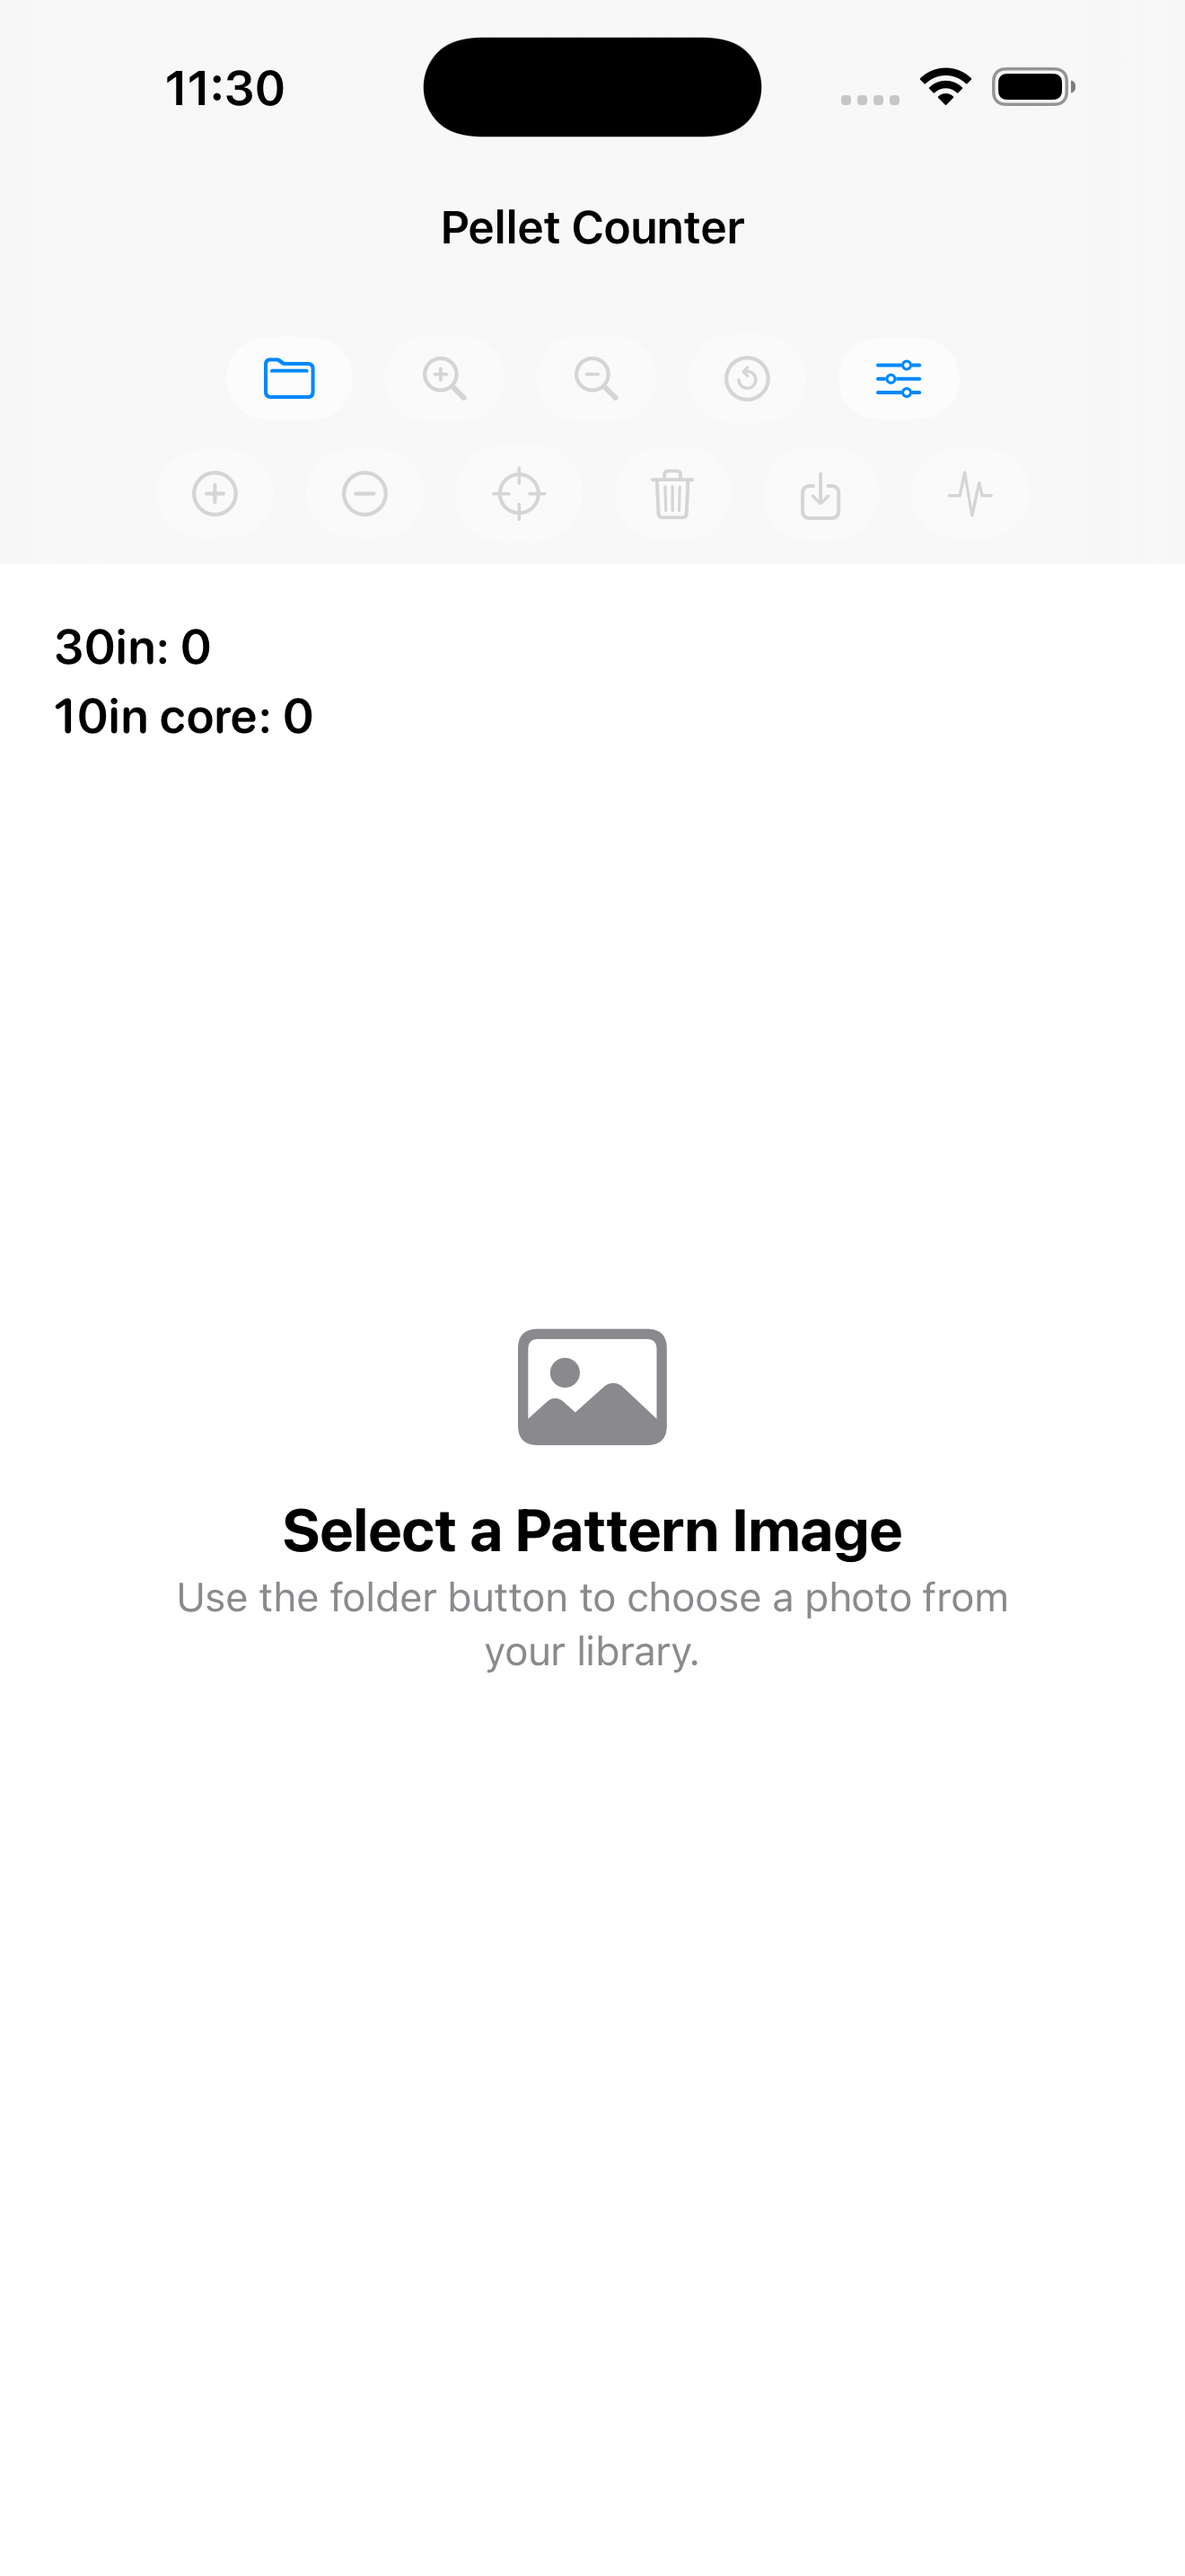
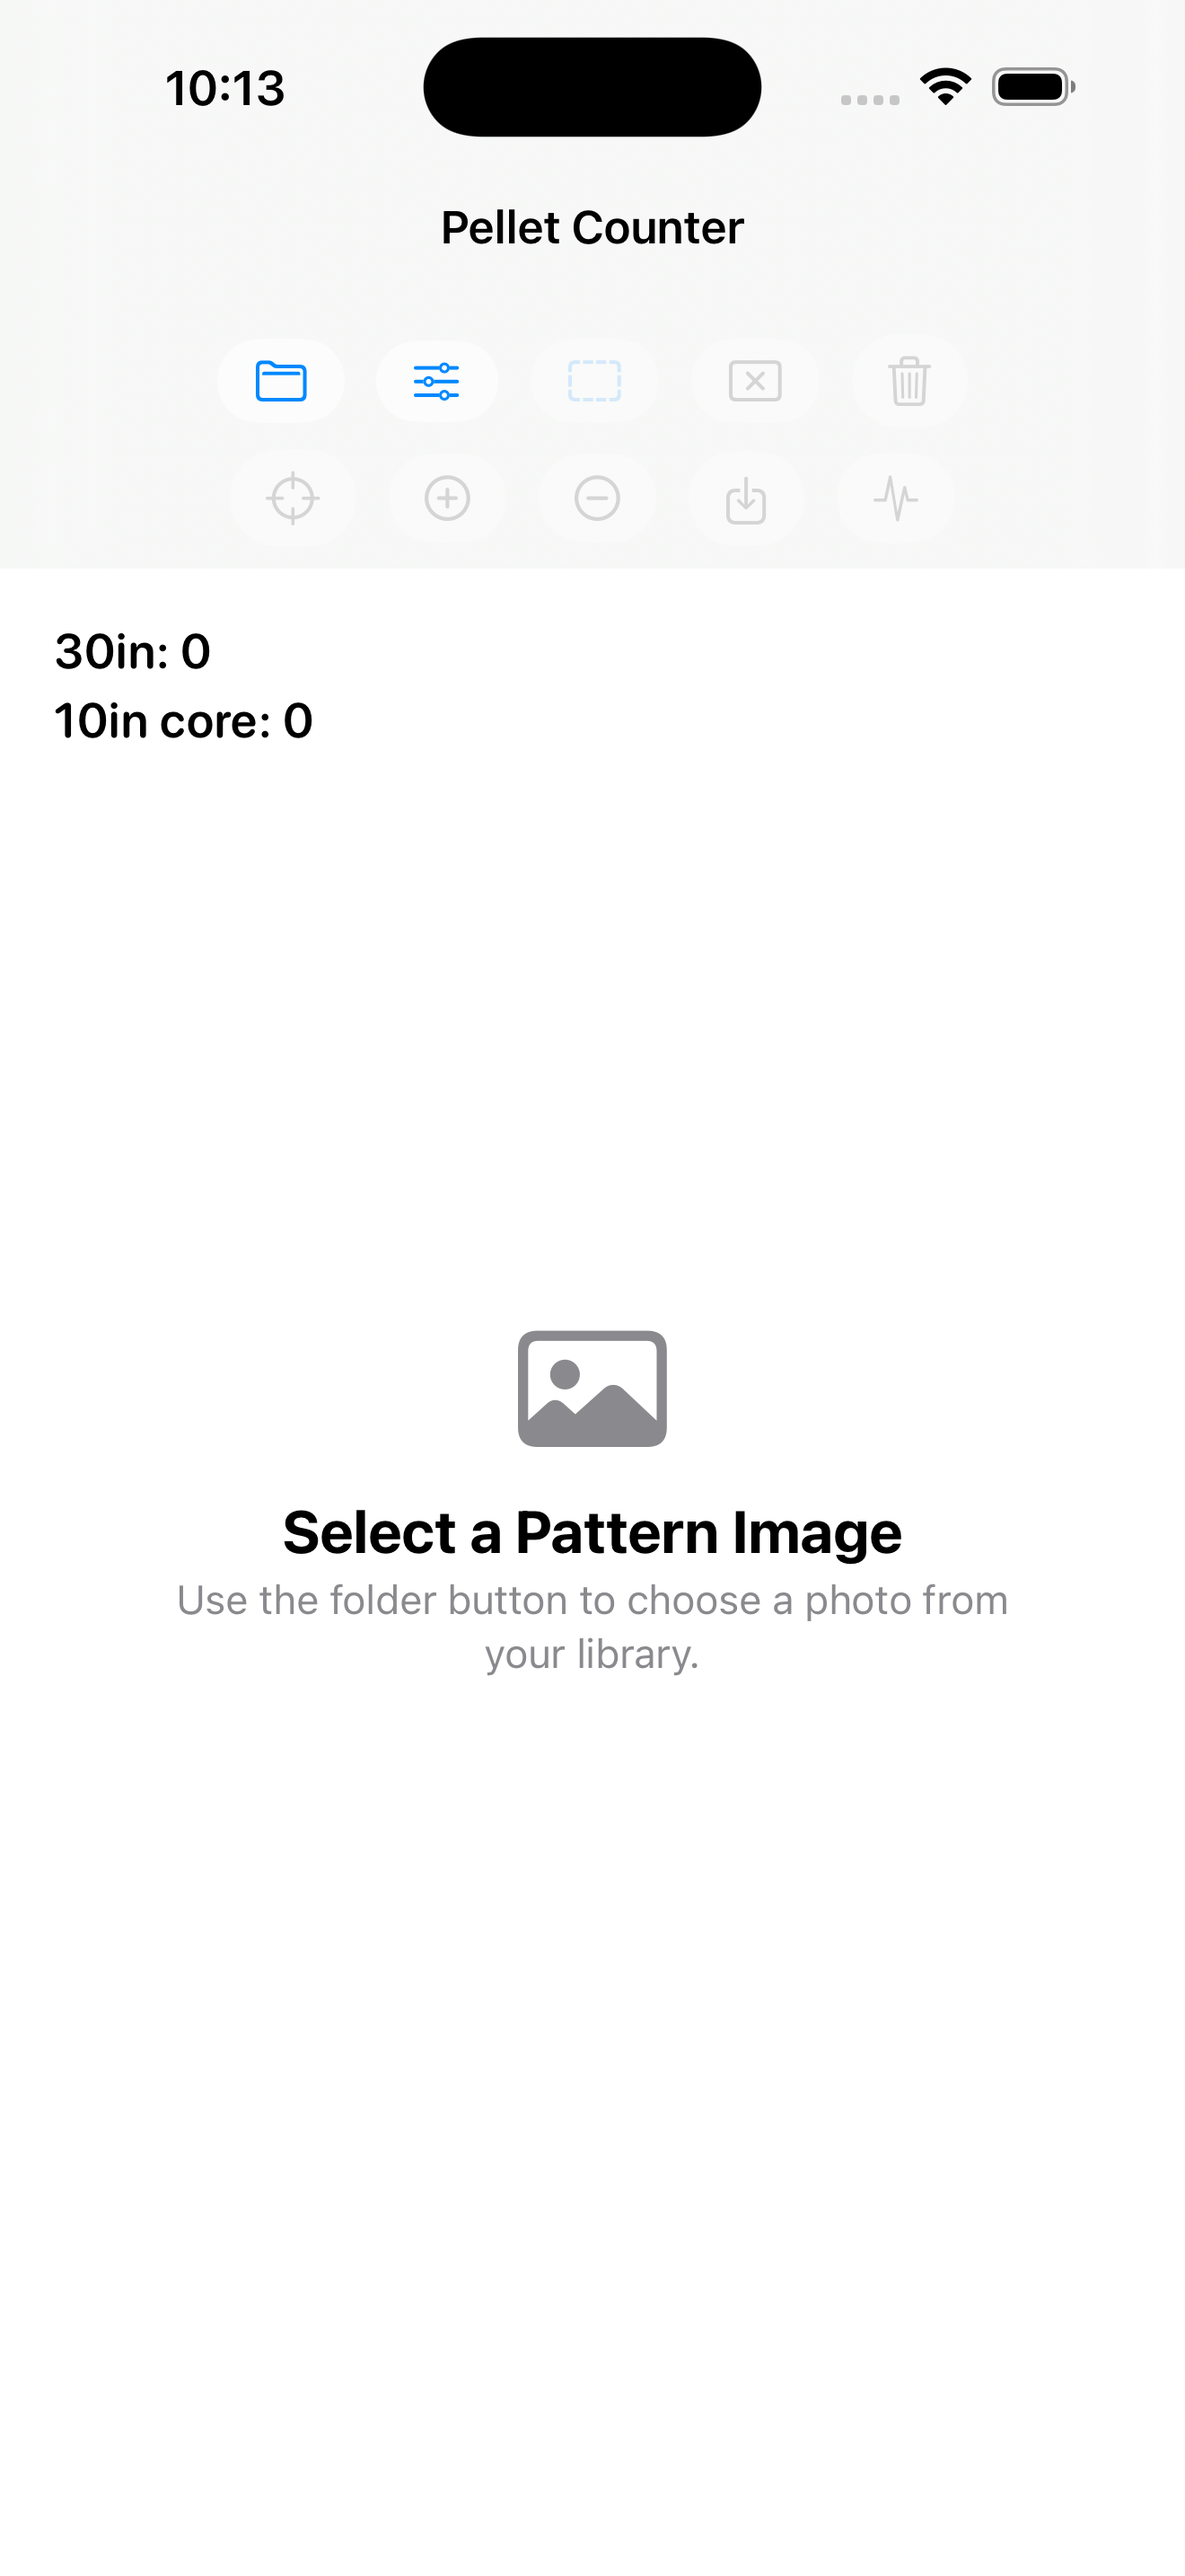
Update support docs for calibration line workflow

diff --git a/getting-started-with-shotgun-patterns.md b/getting-started-with-shotgun-patterns.md
@@ -1,6 +1,6 @@
 # Getting Started With Shotgun Patterns
 
-Good pattern photos start with good pattern targets. Shotgun Pellet Analyzer works best when the paper is large, flat, evenly lit, and photographed square-on after the 30-inch circle has been placed around the densest part of the pattern.
+Good pattern photos start with good pattern targets. Shotgun Pellet Analyzer works best when the paper is large, flat, evenly lit, and photographed square-on. The app can either find the 30-inch analysis circle from a measured calibration line, or use a 30-inch circle that you draw on the target.
 
 [Back to Support](index.md)
 
@@ -31,9 +31,9 @@ These are not required, but they make consistent patterns much easier to collect
     <td width="33%" align="center">
       <img src="assets/plexiglass-circle.svg" alt="A clear circular template for drawing a 30-inch pattern circle" width="220">
       <br>
-      <strong>30-Inch Circle Template</strong>
+      <strong>Optional 30-Inch Circle Template</strong>
       <br>
-      A string, cardboard guide, or clear plexiglass circle helps center the standard 30-inch circle over the pattern.
+      A string, cardboard guide, or clear plexiglass circle can still be useful if you prefer to draw the circle yourself.
       <br>
       <a href="https://a.co/d/0cennMPR">Example clear circle</a>
     </td>
@@ -46,11 +46,27 @@ Use fresh, unmarked paper when possible. Black marker circles around pellet hole
 
 Mount the paper flat and square to the shooter. Wrinkles, deep folds, and heavy shadows can look like pellet strikes in photos.
 
-Make sure the paper is large enough for the whole pattern. A standard shotgun pattern is usually evaluated inside a 30-inch circle, so extra margin around the circle helps the app find the boundary and ignore background.
+Make sure the paper is large enough for the whole pattern. A standard shotgun pattern is usually evaluated inside a 30-inch circle, so extra margin around the pellet cloud helps the app ignore background.
 
-## Drawing the 30-Inch Circle
+## Calibration Line Method
 
-After shooting, place the 30-inch circle around the densest part of the pellet pattern, not necessarily around the aiming point.
+The recommended method is to draw a straight calibration line on the target after shooting. The app uses that known length to calculate how large a 30-inch circle should be in the photo, then places the circle around the densest part of the pellet pattern.
+
+Use a dark, straight, high-contrast line. A 12-inch line works well because it is easy to draw with a ruler and large enough for the app to detect accurately.
+
+Tips:
+
+- Draw the line away from the densest pellet area so it does not cover pellet holes.
+- Keep the line fully on the target paper.
+- Use one clean stroke if possible.
+- Avoid placing the line on a fold, heavy shadow, tape edge, or background object.
+- In the app settings, leave **Find circle from line** selected and enter the real line length in **Length of line (inches)**.
+
+If the photo includes a lot of background, use the dashed rectangle tool in the app to draw a search region around the target paper, calibration line, and pellet pattern before detecting.
+
+## Optional Drawn 30-Inch Circle
+
+You can still draw the 30-inch circle yourself. After shooting, place the 30-inch circle around the densest part of the pellet pattern, not necessarily around the aiming point.
 
 Common methods:
 
@@ -58,7 +74,7 @@ Common methods:
 - Cut a 30-inch cardboard circle and trace around it.
 - Use a clear 30-inch plexiglass circle so you can see the pellet distribution while centering it.
 
-Use a dark, clean line. Avoid repeatedly tracing the circle or making a very thick border.
+Use a dark, clean line. Avoid repeatedly tracing the circle or making a very thick border. In the app settings, choose **Use drawn 30in circle** for this workflow.
 
 ## Taking the Photo
 
@@ -66,15 +82,15 @@ Lay the target flat on the ground or another flat surface.
 
 Use bright, even light. Outdoor shade or indirect daylight usually works better than harsh sun.
 
-Hold the phone as square to the paper as possible. The whole 30-inch circle should be visible, with a little margin around it.
+Hold the phone as square to the paper as possible. The calibration line and pellet pattern should be visible. If you drew a 30-inch circle, the whole circle should be visible with a little margin around it.
 
 Avoid strong shadows from your body, the phone, trees, range structures, or folds in the paper.
 
-Take a sharp, high-resolution photo. If the pellet holes are tiny or faint, move closer while keeping the full 30-inch circle visible.
+Take a sharp, high-resolution photo. If the pellet holes are tiny or faint, move closer while keeping the calibration line and pellet pattern visible.
 
 ## In the App
 
-Open the photo, run detection, then zoom in and review the results. Add any missed pellet strikes and remove false detections before saving the marked image.
+Open the photo, choose the detector mode in settings, run detection, then zoom in and review the results. Add any missed pellet strikes and remove false detections before saving the marked image.
 
 If you know the pellet count in the shell, enter it in settings so the app can report pattern percentages.
 
@@ -82,8 +98,8 @@ If you know the pellet count in the shell, enter it in settings so the app can r
 
 - Large paper, preferably 48 inches wide
 - Paper flat on a frame or flat surface
-- 30-inch circle centered on the densest part of the pattern
-- Full circle visible in the photo
+- 12-inch calibration line, or optional 30-inch circle
+- Calibration line and pellet pattern visible in the photo
 - Even lighting with minimal shadows
 - No marker circles around individual pellet holes
 - Review and correct detections before saving

diff --git a/README.md b/README.md
@@ -54,14 +54,14 @@ The app is designed for shooters who want a practical field tool for pattern tes
       <strong>Select a Pattern</strong>
     </td>
     <td align="center" width="33%">
-      <img src="Images/screenshots/pattern-detected.png" alt="Shotgun pattern with detected pellet strikes" width="220">
+      <img src="Images/screenshots/detector-settings.png" alt="Auto-detector settings with calibration line mode" width="220">
       <br>
-      <strong>Automatic Detection</strong>
+      <strong>Detector Settings</strong>
     </td>
     <td align="center" width="33%">
-      <img src="Images/screenshots/zoom-review.png" alt="Zoomed pattern review with pellet markers" width="220">
+      <img src="Images/screenshots/pattern-detected.png" alt="Line-calibrated shotgun pattern with detected pellet strikes" width="220">
       <br>
-      <strong>Zoom and Review</strong>
+      <strong>Automatic Detection</strong>
     </td>
   </tr>
 </table>
@@ -70,7 +70,7 @@ The app is designed for shooters who want a practical field tool for pattern tes
 
 New to shotgun patterning, or want cleaner app results?
 
-[Getting Started With Shotgun Patterns](getting-started-with-shotgun-patterns.md) covers useful equipment, drawing the 30-inch circle, lighting, and photo tips.
+[Getting Started With Shotgun Patterns](getting-started-with-shotgun-patterns.md) covers useful equipment, calibration lines, optional 30-inch circles, lighting, and photo tips.
 
 ## Support
 

diff --git a/index.md b/index.md
@@ -16,9 +16,31 @@ Use the app to select a photo from your library, detect pellet strikes, review a
 
 ## New to Patterning?
 
-Good analysis starts with a good target photo. See the setup guide for paper, target frames, drawing the 30-inch circle, lighting, and photo tips:
+Good analysis starts with a good target photo. See the setup guide for paper, target frames, calibration lines, optional 30-inch circles, lighting, and photo tips:
 
 [Getting Started With Shotgun Patterns](getting-started-with-shotgun-patterns.md)
+
+## Screenshots
+
+<table>
+  <tr>
+    <td align="center" width="33%">
+      <img src="Images/screenshots/app-home.png" alt="Shotgun Pellet Analyzer home screen" width="220">
+      <br>
+      <strong>Select a Pattern</strong>
+    </td>
+    <td align="center" width="33%">
+      <img src="Images/screenshots/detector-settings.png" alt="Auto-detector settings with calibration line mode" width="220">
+      <br>
+      <strong>Detector Settings</strong>
+    </td>
+    <td align="center" width="33%">
+      <img src="Images/screenshots/pattern-detected.png" alt="Line-calibrated shotgun pattern with detected pellet strikes" width="220">
+      <br>
+      <strong>Automatic Detection</strong>
+    </td>
+  </tr>
+</table>
 
 ## Using the App
 
